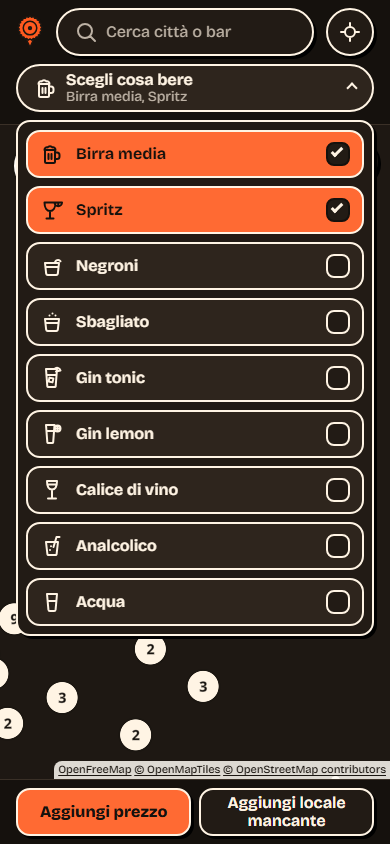
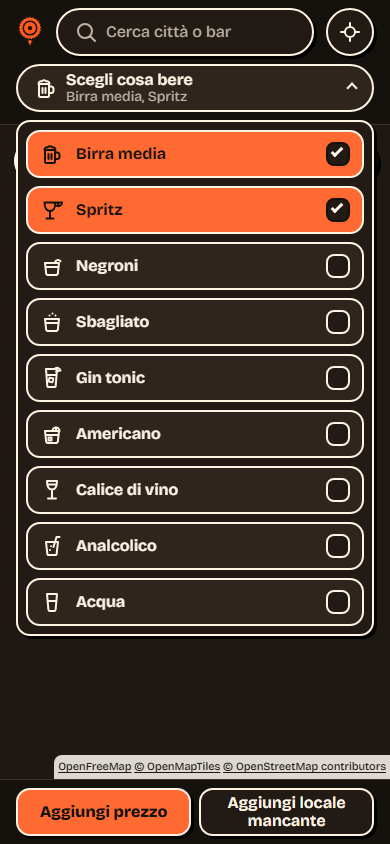
feat(catalog): show gin_lemon as «Americano» (SPEC 1.17, ADR 0047)
Only the displayed name changes: the gin_lemon code stays in the catalog,
D1, API and native apps, so no migration and no API change. Existing
prices keep their code and read as Americano (Roberto's choice).

- it.ts / en.ts: gin_lemon label is «Americano»
- Icon.tsx: new drawing (low tumbler, half orange wheel, ice)
- seo-texts.ts: «americano» in the list of drinks
- SPEC 1.17, ADR 0047, PROGRESS entry, screenshots at 390×844
- tests updated because the requirement (the name) changed

diff --git a/tests/e2e/brand-tiers.spec.ts b/tests/e2e/brand-tiers.spec.ts
@@ -27,7 +27,7 @@ test("M4-03 with five prices the legend appears and the pins are drawn; with few
 test("M4-05 a price older than 90 days says «Da confermare» on the bar page", async ({ page }) => {
   await page.goto("/bar/n11755824793?c=u0nd9");
   const sheet = page.getByRole("dialog", { name: "Le Jardin Bistrot" });
-  const old = sheet.getByRole("listitem").filter({ hasText: "Gin lemon" });
+  const old = sheet.getByRole("listitem").filter({ hasText: "Americano" });
   await expect(old).toContainText("Da confermare");
   const wine = sheet.getByRole("listitem").filter({ hasText: "Calice di vino" });
   await expect(wine).not.toContainText("Da confermare"); // 4 days old
@@ -38,7 +38,7 @@ test("M4-05 a price older than 90 days is marked on the map list too, and a rece
 }) => {
   await page.goto("/");
   await goToMilano(page);
-  await chooseDrinks(page, "Gin lemon");
+  await chooseDrinks(page, "Americano");
   await page.getByRole("button", { name: "Elenco" }).click();
   const list = page.getByRole("dialog", { name: "Bar nella zona" });
   await expect(list.getByRole("link", { name: /Le Jardin Bistrot/ })).toContainText(

diff --git a/src/app/components/Icon.tsx b/src/app/components/Icon.tsx
@@ -21,8 +21,9 @@ const PATHS = {
     "M6 8h12l-1.4 12.2a1 1 0 0 1-1 .8H8.4a1 1 0 0 1-1-.8ZM13.5 13 16.5 3h3M10 16h.01M11 12.2h.01",
   sbagliato:
     "M5 9h14l-1.2 10.8a1.5 1.5 0 0 1-1.5 1.2H7.7a1.5 1.5 0 0 1-1.5-1.2ZM5.6 13h12.8M9.5 5.5v.01M12.5 3.5v.01M15.5 5.5v.01",
+  // Shown as «Americano» since SPEC 1.17 (ADR 0047): the code stays, the drawing is a low tumbler with half an orange wheel and ice.
   gin_lemon:
-    "M6 3h8.5l-1.3 17.2a1 1 0 0 1-1 .8H8.3a1 1 0 0 1-1-.8ZM6.6 9h7.4M14.5 6.5a3 3 0 1 0 6 0 3 3 0 0 0-6 0ZM17.5 3.5v6M14.5 6.5h6",
+    "M5 9h14l-1.2 10.8a1.5 1.5 0 0 1-1.5 1.2H7.7a1.5 1.5 0 0 1-1.5-1.2ZM5.6 13h12.8M12.5 9a3.5 3.5 0 0 1 7 0M16 9V5.5M8.5 15.5h3v3h-3Z",
   water: "M7 4h10l-1.4 15.7a1.5 1.5 0 0 1-1.5 1.3H9.9a1.5 1.5 0 0 1-1.5-1.3ZM7.6 11h8.8",
 } as const;
 

diff --git a/src/worker/seo-texts.ts b/src/worker/seo-texts.ts
@@ -114,7 +114,7 @@ Sitemap: ${origin}/sitemap.xml
 > Città con più dati: Milano, Roma, Torino, Bologna, Firenze, Napoli.
 
 ## Cosa puoi trovare
-- Prezzi aggiornati di birra media, spritz, negroni, sbagliato, gin tonic, gin lemon, vino, analcolico e acqua
+- Prezzi aggiornati di birra media, spritz, negroni, sbagliato, gin tonic, americano, vino, analcolico e acqua
 - La differenza tra il prezzo pieno e quello dell'happy hour
 - La posizione dei bar su una mappa interattiva
 - La copertura per città, con il numero di bar che hanno un prezzo

diff --git a/src/app/i18n/en.ts b/src/app/i18n/en.ts
@@ -353,7 +353,7 @@ export const en: Dict = {
     negroni: "Negroni",
     sbagliato: "Sbagliato",
     gin_tonic: "Gin and tonic",
-    gin_lemon: "Gin lemon",
+    gin_lemon: "Americano",
     wine_glass: "Glass of wine",
     alcohol_free: "Non-alcoholic",
     water: "Water",

diff --git a/src/app/i18n/it.ts b/src/app/i18n/it.ts
@@ -535,7 +535,7 @@ export const it = {
     negroni: "Negroni",
     sbagliato: "Sbagliato",
     gin_tonic: "Gin tonic",
-    gin_lemon: "Gin lemon",
+    gin_lemon: "Americano",
     wine_glass: "Calice di vino",
     alcohol_free: "Analcolico",
     water: "Acqua",

diff --git a/tests/e2e/english.spec.ts b/tests/e2e/english.spec.ts
@@ -204,7 +204,7 @@ test("ME-04 the map screen and the drink menu are in English", async ({ page }, 
     "Negroni",
     "Sbagliato",
     "Gin and tonic",
-    "Gin lemon",
+    "Americano",
     "Glass of wine",
     "Non-alcoholic",
     "Water",

diff --git a/tests/unit/catalog.test.ts b/tests/unit/catalog.test.ts
@@ -11,7 +11,7 @@ describe("one catalog for the map filter and the price entry", () => {
       "Negroni",
       "Sbagliato",
       "Gin tonic",
-      "Gin lemon",
+      "Americano",
       "Calice di vino",
       "Analcolico",
       "Acqua",

diff --git a/tests/e2e/helpers.ts b/tests/e2e/helpers.ts
@@ -60,7 +60,7 @@ export const DRINK_NAMES = [
   "Negroni",
   "Sbagliato",
   "Gin tonic",
-  "Gin lemon",
+  "Americano",
   "Calice di vino",
   "Analcolico",
   "Acqua",

diff --git a/docs/SPEC.md b/docs/SPEC.md
@@ -1,6 +1,8 @@
 # Dove bevo — Specifica della Fase 0
 
-> **Versione 1.16 · 01/11/2026 · la 1.16 restringe il nonce delle pagine ai soli tag di `index.html`: i tag che il Worker aggiunge per i motori di ricerca (JSON-LD e gli altri) restano senza nonce, così un errore futuro nei loro modelli resta bloccato dalla CSP (13.1, ADR 0045); nessuna modifica a schema, API, D1, scritture e interfaccia; è decisa da Roberto il 01/11/2026 in chat e, non cambiando `docs/feature_list.json`, non richiede un nuovo tag: la guardia resta sul tag `spec-approved-14`. Storico: versione 1.15 · 29/10/2026 · la 1.15 chiude le segnalazioni di Google Search Console senza peggiorare l'interfaccia: pagine servite dal Worker con un nonce per richiesta, tema e CSS dentro la pagina, CSP con `strict-dynamic`, Trusted Types, HSTS `preload`, 404 su `/.well-known/*`, download della mappa dopo l'LCP, immagini in WebP (ADR 0045); nessuna modifica a schema, API, D1 e scritture; è decisa da Roberto il 29/10/2026 in chat, e, non cambiando `docs/feature_list.json`, non richiede un nuovo tag: la guardia resta sul tag `spec-approved-14`. Storico: versione 1.14 · 29/10/2026 · la 1.14 rende tollerante l'import dei bar da OpenStreetMap: una voce che non valida (nome oltre 120 caratteri, coordinate fuori dal riquadro Italia) viene saltata e scritta nel log, e l'import fallisce solo oltre 25 voci saltate (5.1, ADR 0043); nessuna modifica a schema, API, interfaccia, scritture e feature list; è decisa da Roberto il 29/10/2026 in chat e, non cambiando `docs/feature_list.json`, non richiede un nuovo tag: la guardia resta sul tag `spec-approved-14`. Storico: versione 1.13 · 28/10/2026 · la 1.13 chiude l'inglese e la mappa: il titolo della pagina sulla mappa resta «Dove bevo» in entrambe le lingue (ME-03); i link delle attribuzioni della mappa diventano alti almeno 24 px (WCAG 2.5.8, MG-01); all'apertura compare al centro della mappa il pulsante «Clicca sulla mappa o cerca una città» e il messaggio «Avvicinati…» in alto compare solo dopo il primo tocco (D-37, MH-01, MH-02); il download in anticipo resta, ma su Safari/iPhone non migliora il primo tocco (ADR 0040); nessuna modifica a schema, API, D1 e scritture; è decisa da Roberto il 28/10/2026 in chat, e vale con il tag `spec-approved-14`. Storico: versione 1.12 · 28/10/2026 · la 1.12 corregge il modo in cui si scarica in anticipo il file della mappa: non più `<link rel="prefetch">`, che Safari e iPhone non eseguono (misurato con WebKit), ma `fetch` a bassa priorità degli stessi tre file (D-35, MF-01, MF-02, ADR 0039); nessuna modifica a schema, API, D1 e scritture; è decisa da Roberto il 28/10/2026 in chat, e valeva con il tag `spec-approved-13`. Storico: versione 1.11 · 28/10/2026 · la 1.11 porta la mappa pronta al primo tocco (il file della mappa si scarica in anticipo, senza eseguirlo; D-35, ADR 0037) e l'interfaccia pubblica in inglese, scelta da un menu in alto a sinistra e mai salvata (D-36, ADR 0038); nessuna modifica a schema, API, D1 e scritture; è decisa da Roberto il 28/10/2026 in chat, e valeva con il tag `spec-approved-12`. Storico: versione 1.10 · 27/10/2026 · la 1.10 sceglie un solo ambiente vivo: l'ambiente `staging` (Worker `dovebevo-staging`, il suo D1, i suoi segreti, il dominio `www.dovebevo.com`) è il sito in produzione; il secondo ambiente `production` non esiste e si crea più avanti, solo se Roberto lo decide (ADR 0036, che completa l'ADR 0035); cambiano le righe M6-02, M6-04 e M6-05 e i testi di ambienti, CI/CD, prerequisiti e milestone M6; nessuna modifica a schema, API, interfaccia e scritture; è decisa da Roberto il 27/10/2026 in chat, e valeva con il tag `spec-approved-11`. Storico: versione 1.9 · 25/10/2026 · la 1.9 aggiunge l'offerta «Gestore verificato» per i gestori dei locali: spunta blu con «Gestore verificato» e «Sponsorizzato» accanto al nome, posto in cima all'Elenco e orari di apertura scritti nella scheda prima dello scontrino, attivati e scritti solo dall'admin; l'utente continua a non pagare e a non registrarsi (D-34, 7.10, MD-01…MD-11, ADR 0033); è decisa da Roberto il 25/10/2026 in chat, e valeva con il tag `spec-approved-10`. Storico: versione 1.8 · 24/10/2026 · la 1.8 aggiunge sulla mappa un pallino piccolo della posizione, che compare solo dopo «Vicino a me» e resta fermo finché non lo si ritocca, e riduce le attribuzioni a una sola riga piccola nell'angolo, sempre visibili (7.1, D-33, MC-05, ADR 0031); è decisa da Roberto il 24/10/2026 in chat, e valeva con il tag `spec-approved-9`. Storico: versione 1.7 · 21/10/2026 · la 1.7 toglie dalla mappa la frase della zona senza prezzi («Qui nessuno ha ancora segnato un prezzo…»): appesantisce la schermata e non dà valore (7.1, D-28, MB-13); è decisa da Roberto il 21/10/2026 in chat, e valeva con il tag `spec-approved-8`. Storico: versione 1.6 · 21/10/2026 · la 1.6 sostituisce la lista dei drink con i nove voluti da Roberto, senza formati né millilitri in nessun punto (ADR 0028), e al posto della riga di chip mette un solo menu «Scegli cosa bere» a caselle multiple, con il prezzo più basso tra i drink scelti sul segnaposto (7.1, 6, D-04, M1-09, MC-01…MC-04); è decisa da Roberto il 21/10/2026 in chat, e valeva con il tag `spec-approved-7`. Storico: versione 1.5 · 21/10/2026 · la 1.5 porta l'Annulla da 10 a 5 secondi, riduce la barra della mappa ai soli due tasti "Aggiungi prezzo" e "Aggiungi locale mancante" ("Elenco" diventa un'icona sulla mappa, "Manda la mappa a un amico" sparisce) e fissa che la mappa non cambia mai altezza (ADR 0027, D-15, D-28, M1-16); è decisa da Roberto il 21/10/2026 in chat, e vale con il tag `spec-approved-6` (la 1.4 e il tag `spec-approved-5` stanno sul ramo `brand-v2-map`, non unito a `main`). Storico: versione 1.3 · 16/10/2026 · la 1.3 aggiunge la brand identity v1 (ADR 0023) e la ricerca dei bar per nome in tutta Italia (ADR 0024); è approvata da Roberto il 16/10/2026 in chat, e vale con il tag `spec-approved-4`. Storico: versione 1.2 · 15/10/2026 · la 1.2 aggiunge la dashboard di copertura in `/admin` (ADR 0022, M5-11…M5-16) ed è autorizzata da Roberto il 15/10/2026 in chat, e valeva con il tag `spec-approved-3`; versione 1.1 · 14/10/2026 · la 1.0 è approvata da Roberto l'11/10/2026 (tag `spec-approved`); la 1.1 è autorizzata da Roberto il 13/10/2026 (prompt v3.2) e il 14/10/2026 in chat, e valeva con il tag `spec-approved-2`.**
+> **Versione 1.17 · 10/11/2026 · la 1.17 cambia il nome mostrato del sesto drink del catalogo da «Gin lemon» ad «Americano», con un'icona nuova; il codice `gin_lemon` resta in catalogo, D1, API e app native, i limiti restano 4–20 € e i prezzi già salvati con quel codice si leggono come prezzi dell'Americano (6, ADR 0047); nessuna modifica a schema, API, D1 e scritture; è decisa da Roberto il 10/11/2026 in chat e, non cambiando `docs/feature_list.json`, non richiede un nuovo tag: la guardia resta sul tag `spec-approved-14`. Storico: versione 1.16 · 01/11/2026 · la 1.16 restringe il nonce delle pagine ai soli tag di `index.html`: i tag che il Worker aggiunge per i motori di ricerca (JSON-LD e gli altri) restano senza nonce, così un errore futuro nei loro modelli resta bloccato dalla CSP (13.1, ADR 0045); nessuna modifica a schema, API, D1, scritture e interfaccia; è decisa da Roberto il 01/11/2026 in chat e, non cambiando `docs/feature_list.json`, non richiede un nuovo tag: la guardia resta sul tag `spec-approved-14`. Storico: versione 1.15 · 29/10/2026 · la 1.15 chiude le segnalazioni di Google Search Console senza peggiorare l'interfaccia: pagine servite dal Worker con un nonce per richiesta, tema e CSS dentro la pagina, CSP con `strict-dynamic`, Trusted Types, HSTS `preload`, 404 su `/.well-known/*`, download della mappa dopo l'LCP, immagini in WebP (ADR 0045); nessuna modifica a schema, API, D1 e scritture; è decisa da Roberto il 29/10/2026 in chat, e, non cambiando `docs/feature_list.json`, non richiede un nuovo tag: la guardia resta sul tag `spec-approved-14`. Storico: versione 1.14 · 29/10/2026 · la 1.14 rende tollerante l'import dei bar da OpenStreetMap: una voce che non valida (nome oltre 120 caratteri, coordinate fuori dal riquadro Italia) viene saltata e scritta nel log, e l'import fallisce solo oltre 25 voci saltate (5.1, ADR 0043); nessuna modifica a schema, API, interfaccia, scritture e feature list; è decisa da Roberto il 29/10/2026 in chat e, non cambiando `docs/feature_list.json`, non richiede un nuovo tag: la guardia resta sul tag `spec-approved-14`. Storico: versione 1.13 · 28/10/2026 · la 1.13 chiude l'inglese e la mappa: il titolo della pagina sulla mappa resta «Dove bevo» in entrambe le lingue (ME-03); i link delle attribuzioni della mappa diventano alti almeno 24 px (WCAG 2.5.8, MG-01); all'apertura compare al centro della mappa il pulsante «Clicca sulla mappa o cerca una città» e il messaggio «Avvicinati…» in alto compare solo dopo il primo tocco (D-37, MH-01, MH-02); il download in anticipo resta, ma su Safari/iPhone non migliora il primo tocco (ADR 0040); nessuna modifica a schema, API, D1 e scritture; è decisa da Roberto il 28/10/2026 in chat, e vale con il tag `spec-approved-14`. Storico: versione 1.12 · 28/10/2026 · la 1.12 corregge il modo in cui si scarica in anticipo il file della mappa: non più `<link rel="prefetch">`, che Safari e iPhone non eseguono (misurato con WebKit), ma `fetch` a bassa priorità degli stessi tre file (D-35, MF-01, MF-02, ADR 0039); nessuna modifica a schema, API, D1 e scritture; è decisa da Roberto il 28/10/2026 in chat, e valeva con il tag `spec-approved-13`. Storico: versione 1.11 · 28/10/2026 · la 1.11 porta la mappa pronta al primo tocco (il file della mappa si scarica in anticipo, senza eseguirlo; D-35, ADR 0037) e l'interfaccia pubblica in inglese, scelta da un menu in alto a sinistra e mai salvata (D-36, ADR 0038); nessuna modifica a schema, API, D1 e scritture; è decisa da Roberto il 28/10/2026 in chat, e valeva con il tag `spec-approved-12`. Storico: versione 1.10 · 27/10/2026 · la 1.10 sceglie un solo ambiente vivo: l'ambiente `staging` (Worker `dovebevo-staging`, il suo D1, i suoi segreti, il dominio `www.dovebevo.com`) è il sito in produzione; il secondo ambiente `production` non esiste e si crea più avanti, solo se Roberto lo decide (ADR 0036, che completa l'ADR 0035); cambiano le righe M6-02, M6-04 e M6-05 e i testi di ambienti, CI/CD, prerequisiti e milestone M6; nessuna modifica a schema, API, interfaccia e scritture; è decisa da Roberto il 27/10/2026 in chat, e valeva con il tag `spec-approved-11`. Storico: versione 1.9 · 25/10/2026 · la 1.9 aggiunge l'offerta «Gestore verificato» per i gestori dei locali: spunta blu con «Gestore verificato» e «Sponsorizzato» accanto al nome, posto in cima all'Elenco e orari di apertura scritti nella scheda prima dello scontrino, attivati e scritti solo dall'admin; l'utente continua a non pagare e a non registrarsi (D-34, 7.10, MD-01…MD-11, ADR 0033); è decisa da Roberto il 25/10/2026 in chat, e valeva con il tag `spec-approved-10`. Storico: versione 1.8 · 24/10/2026 · la 1.8 aggiunge sulla mappa un pallino piccolo della posizione, che compare solo dopo «Vicino a me» e resta fermo finché non lo si ritocca, e riduce le attribuzioni a una sola riga piccola nell'angolo, sempre visibili (7.1, D-33, MC-05, ADR 0031); è decisa da Roberto il 24/10/2026 in chat, e valeva con il tag `spec-approved-9`. Storico: versione 1.7 · 21/10/2026 · la 1.7 toglie dalla mappa la frase della zona senza prezzi («Qui nessuno ha ancora segnato un prezzo…»): appesantisce la schermata e non dà valore (7.1, D-28, MB-13); è decisa da Roberto il 21/10/2026 in chat, e valeva con il tag `spec-approved-8`. Storico: versione 1.6 · 21/10/2026 · la 1.6 sostituisce la lista dei drink con i nove voluti da Roberto, senza formati né millilitri in nessun punto (ADR 0028), e al posto della riga di chip mette un solo menu «Scegli cosa bere» a caselle multiple, con il prezzo più basso tra i drink scelti sul segnaposto (7.1, 6, D-04, M1-09, MC-01…MC-04); è decisa da Roberto il 21/10/2026 in chat, e valeva con il tag `spec-approved-7`. Storico: versione 1.5 · 21/10/2026 · la 1.5 porta l'Annulla da 10 a 5 secondi, riduce la barra della mappa ai soli due tasti "Aggiungi prezzo" e "Aggiungi locale mancante" ("Elenco" diventa un'icona sulla mappa, "Manda la mappa a un amico" sparisce) e fissa che la mappa non cambia mai altezza (ADR 0027, D-15, D-28, M1-16); è decisa da Roberto il 21/10/2026 in chat, e vale con il tag `spec-approved-6` (la 1.4 e il tag `spec-approved-5` stanno sul ramo `brand-v2-map`, non unito a `main`). Storico: versione 1.3 · 16/10/2026 · la 1.3 aggiunge la brand identity v1 (ADR 0023) e la ricerca dei bar per nome in tutta Italia (ADR 0024); è approvata da Roberto il 16/10/2026 in chat, e vale con il tag `spec-approved-4`. Storico: versione 1.2 · 15/10/2026 · la 1.2 aggiunge la dashboard di copertura in `/admin` (ADR 0022, M5-11…M5-16) ed è autorizzata da Roberto il 15/10/2026 in chat, e valeva con il tag `spec-approved-3`; versione 1.1 · 14/10/2026 · la 1.0 è approvata da Roberto l'11/10/2026 (tag `spec-approved`); la 1.1 è autorizzata da Roberto il 13/10/2026 (prompt v3.2) e il 14/10/2026 in chat, e valeva con il tag `spec-approved-2`.**
+>
+> **Registro delle modifiche 1.17:** (1) il drink con codice `gin_lemon` si chiama «Americano» in italiano e in inglese nel sito (menu «Scegli cosa bere», Aggiungi prezzo, scheda bar, Elenco, admin, testo per i motori di ricerca), con un'icona nuova (6, ADR 0047); (2) il codice `gin_lemon` non cambia: nessuna migrazione, nessun cambio ad API e vincoli delle tabelle; i prezzi già salvati restano e si leggono come Americano (scelta di Roberto); (3) le app native in `mobile-apps/` non cambiano e continuano a scrivere «Gin lemon». Limiti 4–20 € invariati.
 >
 > **Registro delle modifiche 1.16:** (1) il Worker mette il nonce su `<script>`, `<style>` e `<link rel="modulepreload">` di `index.html` appena esce dagli asset, prima di aggiungere i tag per i motori di ricerca; il JSON-LD e ogni altro tag aggiunto dal Worker restano senza nonce (13.1, ADR 0045). Prima un'iniezione di HTML in quei modelli, oggi impedita dall'escape, sarebbe stata eseguita come script nostro. Header e CSP invariati. Nessuna modifica a schema, API, D1, scritture e interfaccia.
 >
@@ -165,10 +167,12 @@ Dalla 1.6 un drink non ha formato né millilitri: un prezzo per bar, drink e fas
 | `negroni` | Negroni | 4–20 |
 | `sbagliato` | Sbagliato | 4–20 |
 | `gin_tonic` | Gin tonic | 4–20 |
-| `gin_lemon` | Gin lemon | 4–20 |
+| `gin_lemon` | Americano | 4–20 |
 | `wine_glass` | Calice di vino | 2–15 |
 | `alcohol_free` | Analcolico | 2–12 |
 | `water` | Acqua | 0,50–6 |
+
+Dalla 1.17 il drink con codice `gin_lemon` si chiama «Americano»: è cambiato solo il nome mostrato, il codice resta per non toccare D1, API e app native (ADR 0047).
 
 Menu della mappa (v1.6): un solo pulsante «Scegli cosa bere» apre un elenco a caselle, una per drink, nell'ordine della tabella e con gli stessi nomi della griglia di "Aggiungi prezzo": ciò che si filtra si può inserire e viceversa. La scelta è multipla, resta almeno un drink spuntato (l'ultima casella non si toglie), il predefinito è la Birra media e la scelta resta in memoria per la visita. Con più drink la mappa mostra i bar che ne hanno almeno uno, ciascuno con il prezzo più basso tra i scelti (a parità, il più recente); il colore (D-12) è giudicato sulla mediana del drink di quel prezzo.
 

diff --git a/docs/PROGRESS.md b/docs/PROGRESS.md
@@ -33,6 +33,30 @@ Non stanno in SPEC né negli ADR: chi tocca queste parti li legga prima.
 
 ---
 
+## 2026-11-10 · «Gin lemon» diventa «Americano» (ramo `claude/gin-lemon-americano-rename-e63888`) · SPEC 1.17 · ADR 0047
+
+**Richiesta di Roberto:** sostituire Gin lemon con Americano nella scelta dei drink, senza rompere il sito vivo. Scelte sue in chat: il codice `gin_lemon` resta, i prezzi già salvati restano e si leggono come Americano, vale per tutto il sito web (non per le app native), icona nuova e limiti 4–20 €.
+
+**Fatto**
+- `src/app/i18n/it.ts` e `en.ts`: `gin_lemon` → «Americano». `src/worker/seo-texts.ts`: «americano» nell'elenco dei drink.
+- `src/app/components/Icon.tsx`: disegno nuovo per `gin_lemon` (tumbler basso, mezza fetta d'arancia, ghiaccio).
+- SPEC 1.17 (intestazione, registro, tabella 6) e ADR 0047. `docs/feature_list.json` non cambia: nessun tag nuovo.
+- Test cambiati perché è cambiato il requisito (il nome): `tests/unit/catalog.test.ts`, `tests/e2e/helpers.ts`, `english.spec.ts`, `brand-tiers.spec.ts`.
+- Non toccati: `catalog.ts`, migrazioni, `seed.sql`, rotte del Worker, `mobile-apps/`.
+
+**Prove**
+- Test prima del codice: `tests/unit/catalog.test.ts` rosso con `- "Americano" + "Gin lemon"`, poi verde.
+- `npm run typecheck`, `npm run lint`, Prettier: verdi. `npm run test`: 67 file, 846 test verdi. `node scripts/check-feature-list.mjs`: ok.
+- e2e `brand-tiers`, `english`, `drink-menu` su Chromium e WebKit: 83 verdi e 1 rosso su WebKit in `goToMilano` (MC-02, passo «cerca Milano»); ripetuto 2 volte su WebKit: 16 su 16 verdi (intermittenza già nota).
+- Screenshot 390×844: `docs/screenshots/mc/menu-aperto-390.png`, `menu-scuro-due-drink-390.png`, `docs/screenshots/americano/` (griglia e scheda, due temi).
+
+**Da sapere**
+- `GET` dei voti sul drink esatto per le app (`src/worker/routes/mobile-exact-drink-votes.ts`) prende il nome da `it.ts`: per un prezzo `gin_lemon` ora risponde «Americano», mentre le etichette scritte nelle app dicono «Gin lemon».
+- `mobile-apps/tools/menu-seed/` classifica come `gin_lemon` le voci «Gin Lemon» dei listini e le scrive in `prices_current`: sul sito quei prezzi, già importati e futuri, compaiono come Americano finché lo strumento non viene allineato.
+- La frase «piè di pagina della mappa» di SPEC 7.8 (decisione del 10/11 qui sotto) non è stata allineata in questa versione: resta da fare.
+
+---
+
 ## 2026-11-10 · `CLAUDE.md` e diario più corti (ramo `claude/happy-feynman-hfktn3`)
 
 **Richiesta di Roberto:** togliere da `CLAUDE.md` le righe morte e ridurlo il più possibile senza perdere regole; ridurre molto `docs/PROGRESS.md` senza perdere dettagli e senza rischi per la sicurezza.

diff --git a/docs/adr/0047-gin-lemon-diventa-americano.md b/docs/adr/0047-gin-lemon-diventa-americano.md
@@ -1,0 +1,20 @@
+# 0047 · «Gin lemon» diventa «Americano», il codice `gin_lemon` resta
+
+- **Stato:** decisa da Roberto il 10/11/2026 in chat · **Data:** 2026-11-10 · aggiorna l'ADR 0028 (catalogo di nove drink) per il solo nome del sesto drink. SPEC 1.17. Non cambia schema, API, D1 né `docs/feature_list.json`.
+
+## Contesto
+Roberto vuole l'Americano al posto del Gin lemon nella scelta dei drink. Il sito è vivo: il codice `gin_lemon` è nei prezzi già salvati, nei vincoli `CHECK` di cinque migrazioni (0009–0014), nelle rotte del Worker e nelle tre app native già installate.
+
+## Decisione
+1. Cambia **solo il nome mostrato**: `gin_lemon` → «Americano» in `src/app/i18n/it.ts` e `en.ts`, e nel testo per i motori di ricerca (`src/worker/seo-texts.ts`). Vale per menu «Scegli cosa bere», Aggiungi prezzo, scheda bar, Elenco e admin, che leggono tutti la stessa etichetta.
+2. Il **codice resta `gin_lemon`** in `catalog.ts`, D1, API e app native: nessuna migrazione, nessuna richiesta delle app già installate rifiutata.
+3. **Icona nuova** per lo stesso codice in `src/app/components/Icon.tsx`: tumbler basso con mezza fetta d'arancia e ghiaccio.
+4. **Limiti invariati**, 4–20 €, come Negroni e Sbagliato.
+5. I **prezzi già salvati** con `gin_lemon` restano e si leggono come prezzi dell'Americano (scelta di Roberto, al posto dell'archiviazione).
+6. Le **app native** (`mobile-apps/`) non cambiano in questo passo.
+
+## Conseguenze
+- Nel codice un nome interno (`gin_lemon`) non corrisponde più all'etichetta: lo dicono questo ADR, la nota in SPEC 6 e il commento accanto all'icona.
+- I prezzi inseriti finora per il Gin lemon compaiono come Americano finché qualcuno non li conferma o li cambia; oltre 90 giorni restano «da confermare» come ogni prezzo.
+- Sito e app native chiamano lo stesso codice in due modi (Americano, Gin lemon) finché le app non vengono allineate e ripubblicate.
+- Rollback con `git revert`: nessun dato è stato toccato.
